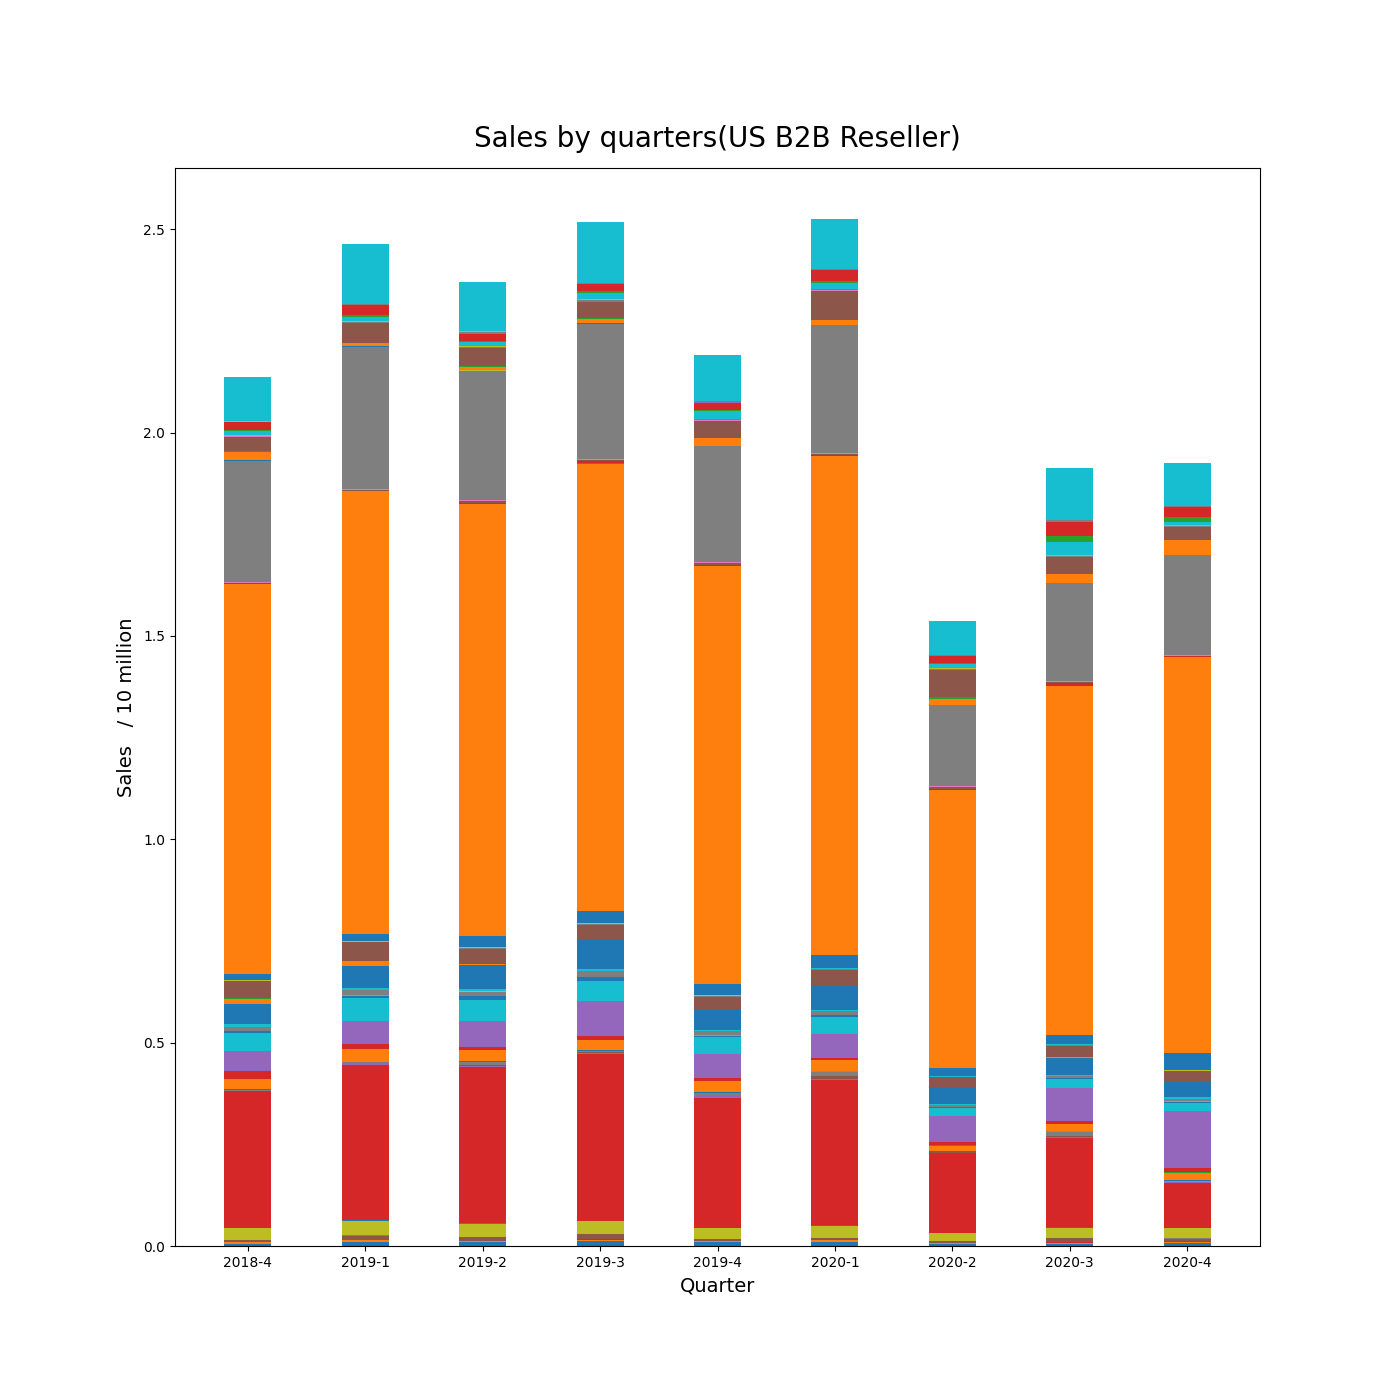
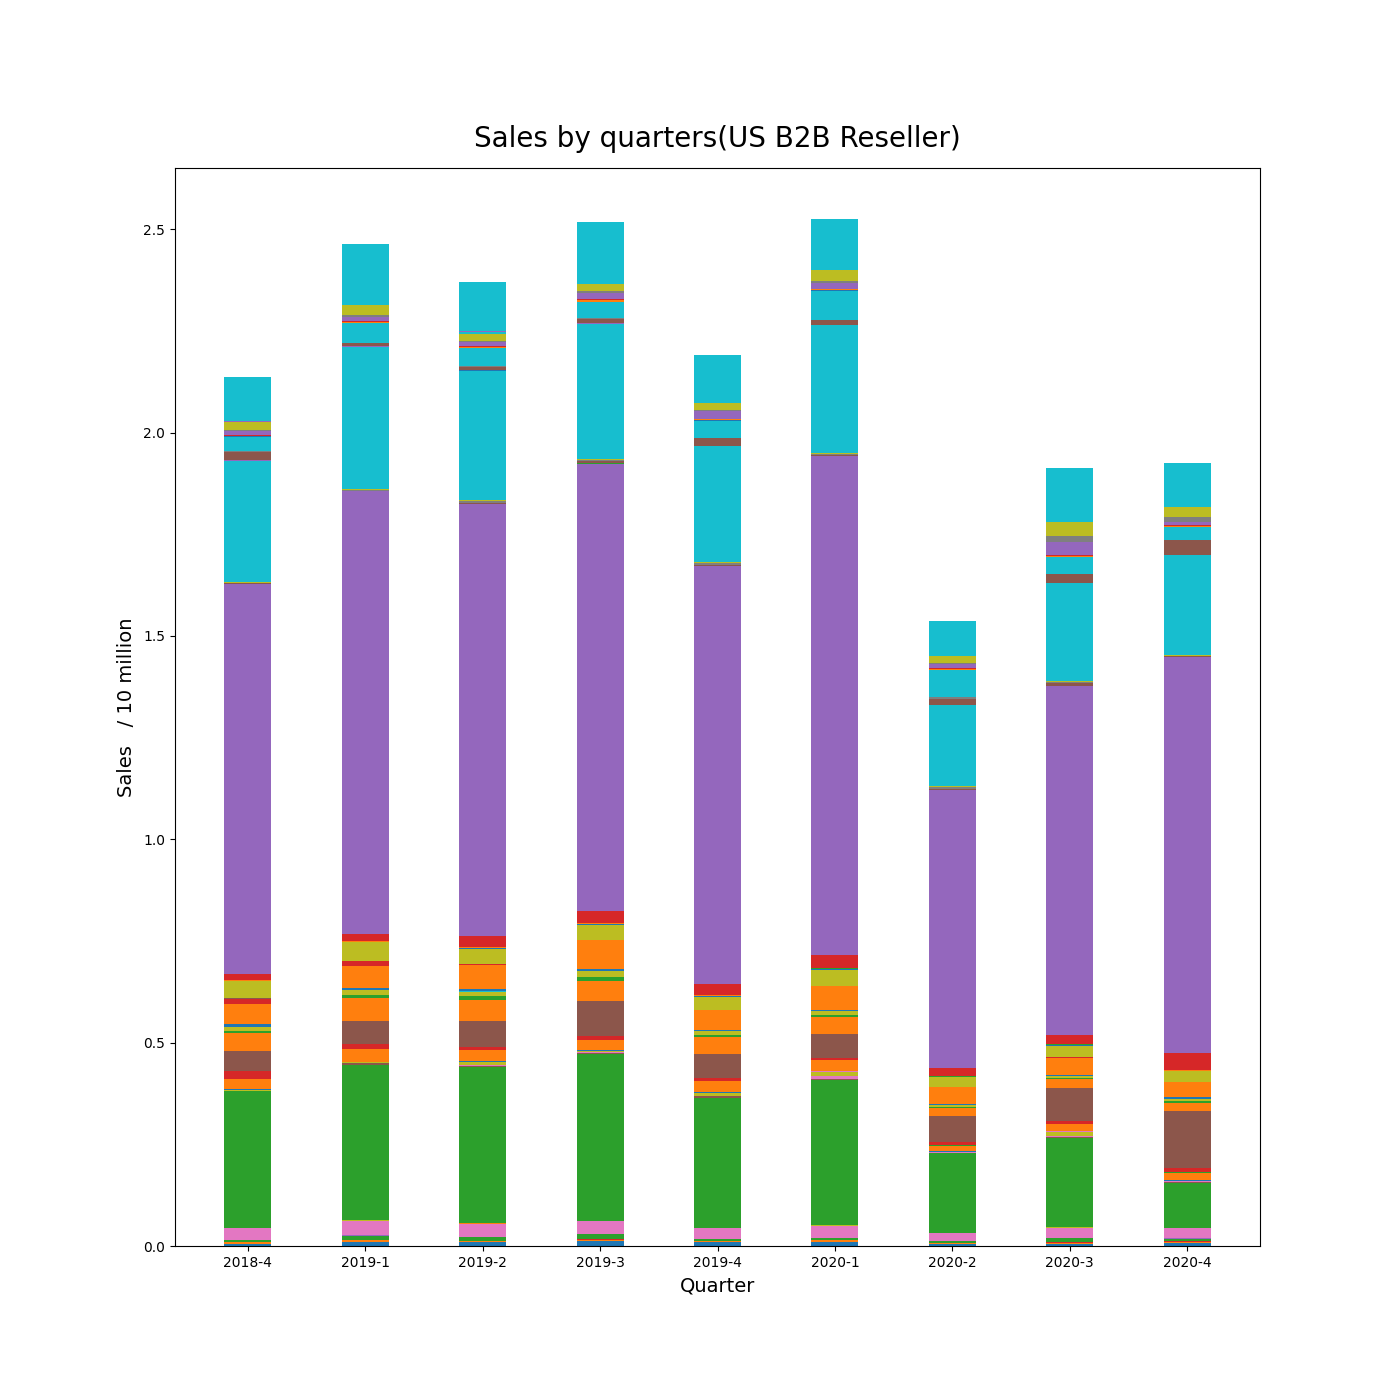
update

diff --git a/sale-brand.py b/sale-brand.py
@@ -3,8 +3,11 @@ import numpy as np
 import json
 import matplotlib.pyplot as plt
 import seaborn as sns
+import random
 from pre_process import pre_process,BRAND,CHANNEL,CORD,SEASON
-COLOR = sns.color_palette(n_colors=100)
+color = sns.color_palette(n_colors=len(BRAND)+1) #sns.light_palette("navy", n_colors=len(BRAND)+1)  #sns.color_palette("cubehelix", n_colors=len(BRAND)+1)
+#random.shuffle(color)
+COLOR = dict(zip(BRAND,color))
 ap_data = pre_process()
 """数据格式形如
 {
@@ -83,8 +86,8 @@ with open('data_analysis\渠道-季节-品牌销售额\single-appearance.json','
 def pre_cur(sale_season:dict):
     """迭代器，返回初始位置，当前项，颜色"""
     cur  = np.array([0.0 for x in range(9)])
-    for i,sale_season in enumerate(sale_season.values()):
-        yield (cur,np.array(list(sale_season.values())),COLOR[i])
+    for brand,sale_season in sale_season.items():
+        yield (cur,np.array(list(sale_season.values())),COLOR[brand])
         cur += np.array(list(sale_season.values()))
 
 def plot():
@@ -103,7 +106,7 @@ def plot():
     plt.yticks(np.arange(0,30000000,5000000),labels=['0.0','0.5','1.0','1.5','2.0','2.5'])
     plt.title('Sales by quarters',fontsize=20,pad=15)
     #plt.legend()
-    plt.savefig(r'data_analysis\渠道-季节-品牌销售额\compare.png')
+    plt.savefig(r'data_analysis\渠道-季节-品牌销售额\new.png')
     plt.show()
 
 def plot_b2b():
@@ -137,5 +140,6 @@ def plot_dis():
     #plt.legend()
     plt.savefig(r'data_analysis\渠道-季节-品牌销售额\dis.png')
     plt.show()
-plot_b2b()
-# plot_dis()
+plot()
+#plot_b2b()
+#plot_dis()
